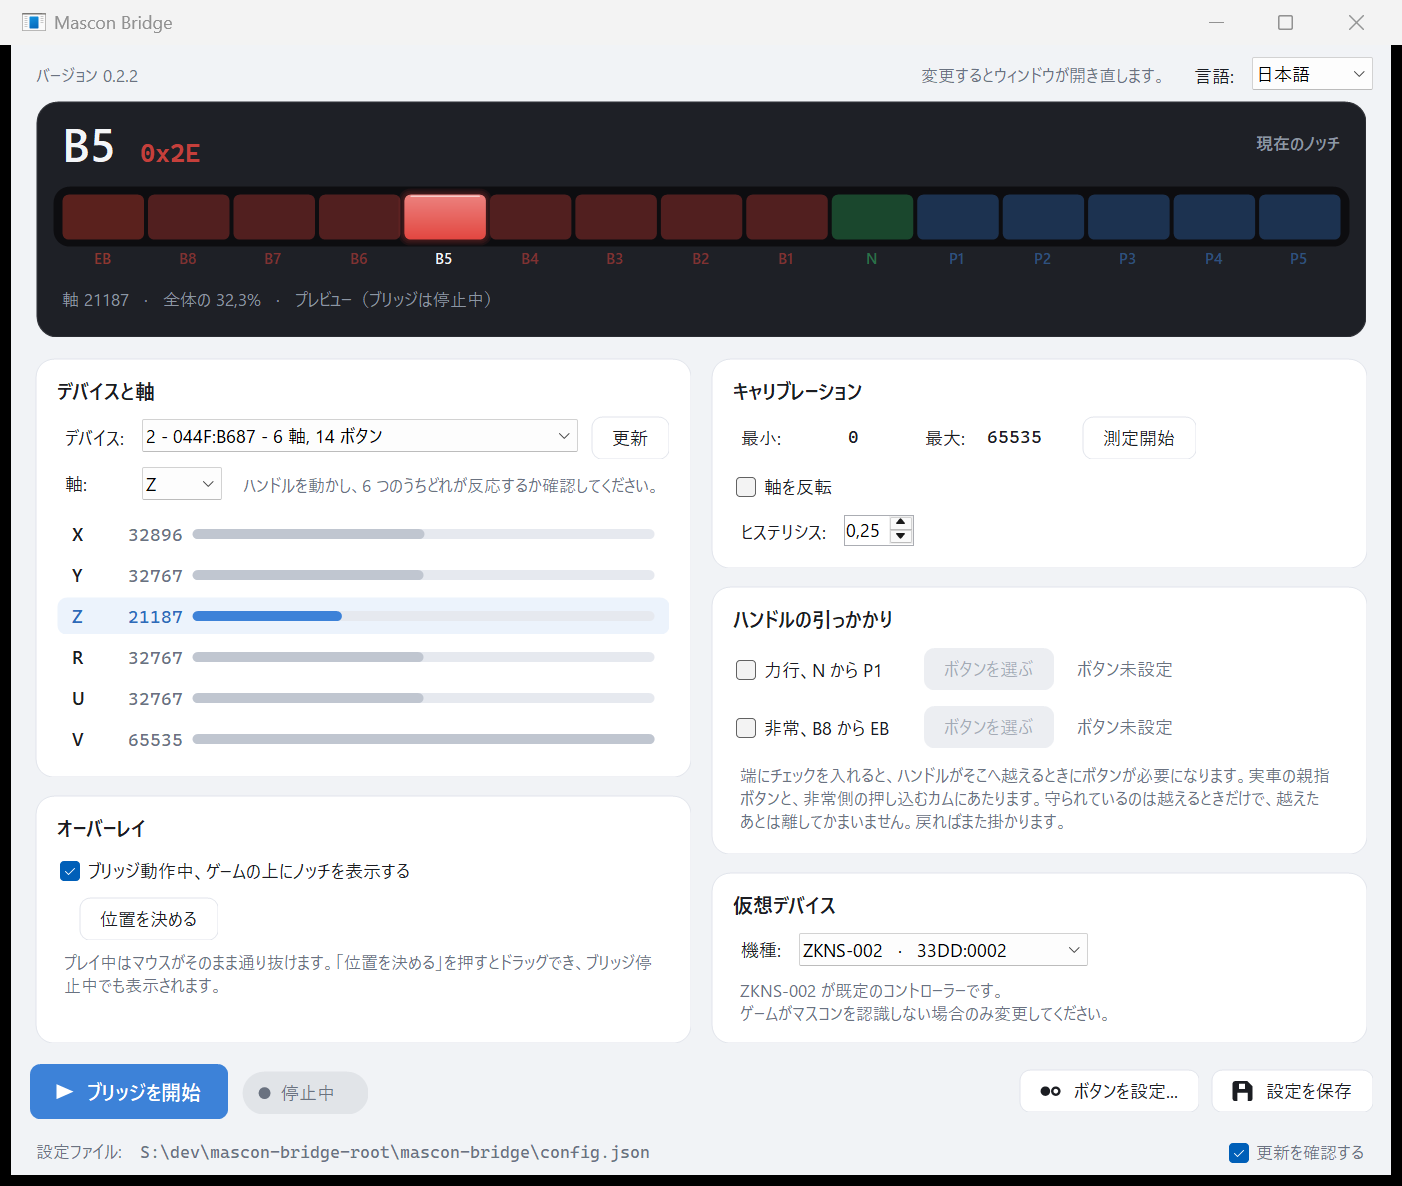
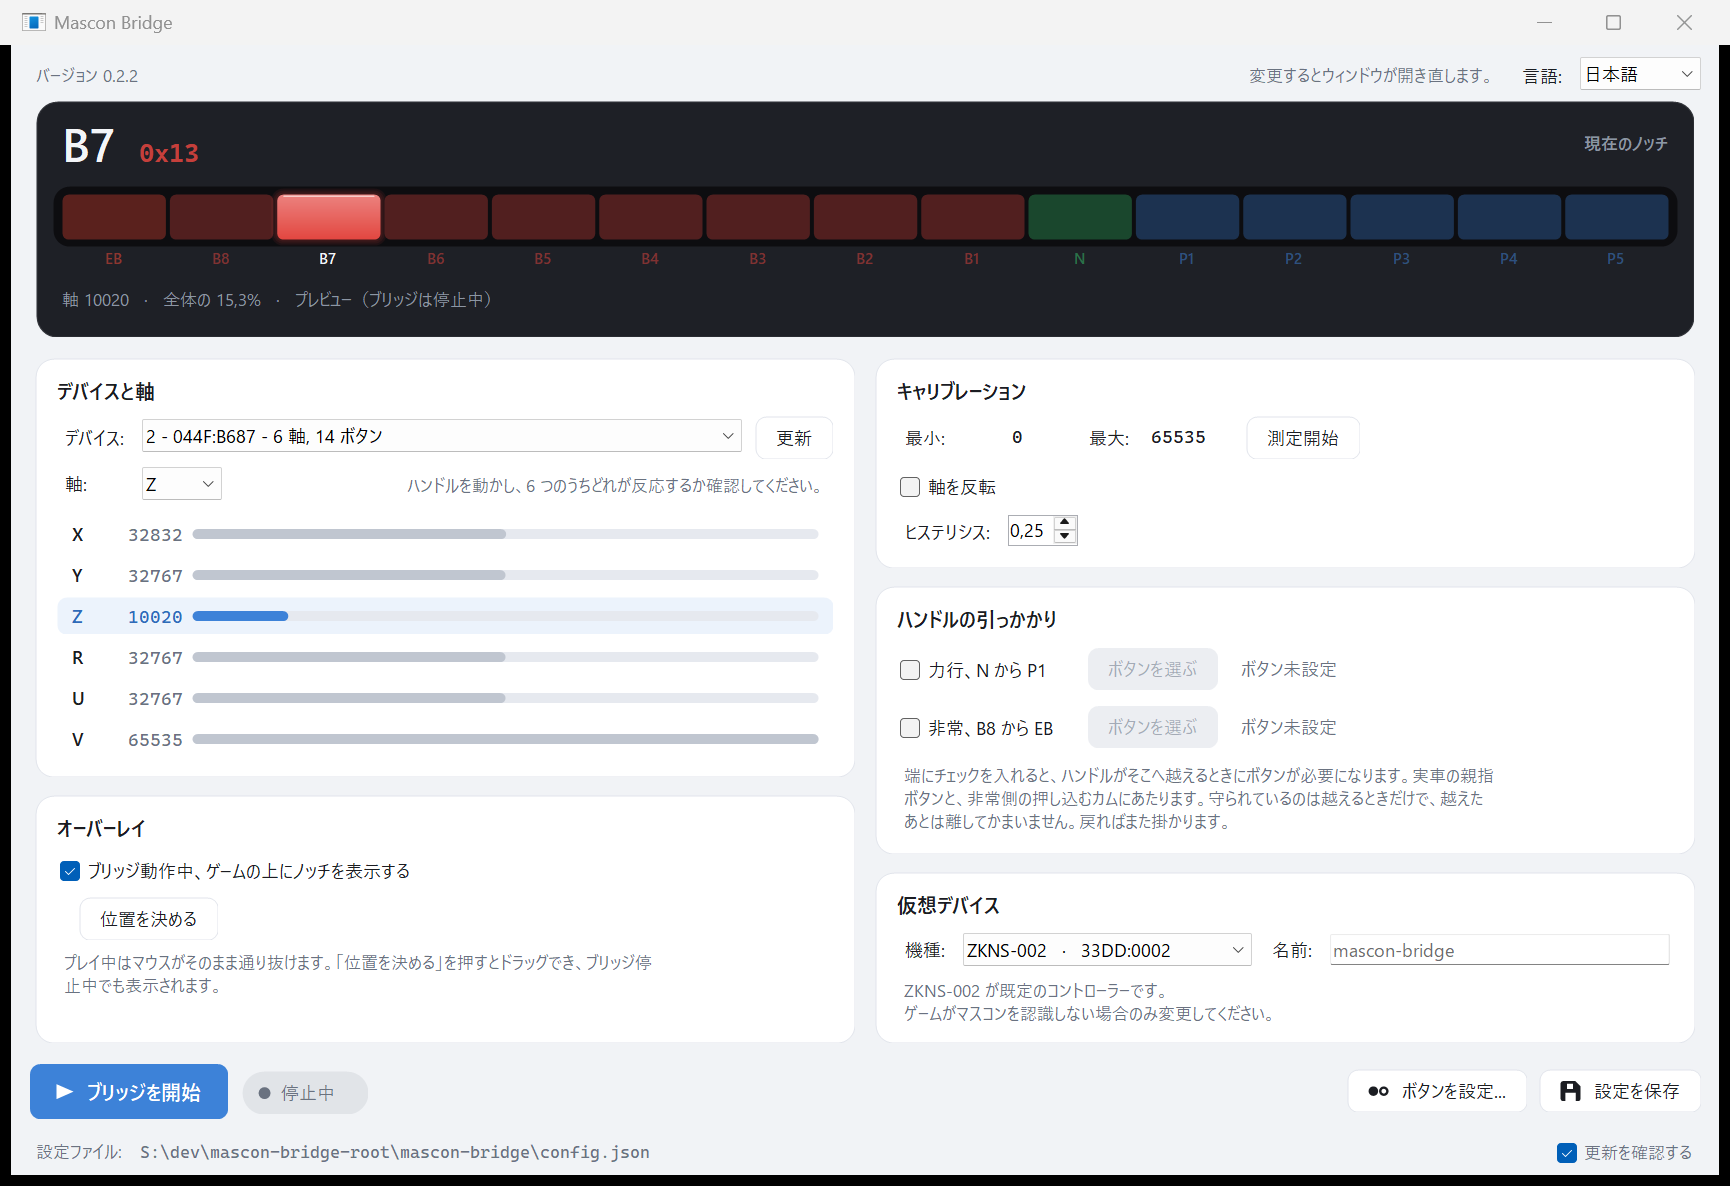
Let the device be given a different name, and make it stick (#23)
* Let the device be given a different name

The bridge stopped borrowing the real mascon's name in v0.2.1, because
nothing needs it: Steam and the game both match on the vendor and product
ids. Third party software is another matter. A BVE Trainsim input plugin
maps a device to a profile by name -- its own source does it with a string,
ProfileMap.Add("JC-PS101U", ...) -- so a profile written for the real mascon
will not recognise a device announcing itself as mascon-bridge.

So the Name box, beside the model. Empty means mascon-bridge, shown as the
placeholder so the effective name is visible without typing it, and clearing
the box puts ProductString back to null as though it had never been set.
It is disabled while the bridge runs, like the model, since the device is
already created by then.

The box holds a whole "One Handle MasCon for Nintendo Switch", measured from
the control's own font rather than a pixel count, so it survives a different
display scale and the Japanese interface, which uses a different family.
Anything longer is on the tooltip, which also carries the note that the game
never reads this and that it applies at the next start.

It shares the model's row. The window has no height to spare -- 791 logical
pixels, 989 at 125% on a 1080p screen with about 1040 usable -- and this is a
field most people will never touch. Width it does have: 1782 physical, 1485
at 125% of the 1920 available.
[…]

diff --git a/MainForm.cs b/MainForm.cs
@@ -62,6 +62,10 @@ public sealed class MainForm : Form
         Text = Strings.ButtonOverlayPlace,
     };
     private readonly FlatButton _btnBindings = new(FlatButton.Look.Plain);
+    private readonly TextBox _txtProduct = new()
+    {
+        PlaceholderText = Zuiki.ProductName,
+    };
 
     private OverlayWindow? _overlay;
     private bool _placingOverlay;
@@ -445,11 +449,13 @@ public sealed class MainForm : Form
 
     private Control BuildVirtualDevice()
     {
-        // Both columns AutoSize: a control spanning into a Percent column is not
-        // measured properly, and the hint below spans the pair.
-        var grid = Grid(2);
+        // The first three columns AutoSize; the name takes what is left, so it can
+        // hold a long one without widening the window to fit it.
+        var grid = Grid(4);
         grid.ColumnStyles.Add(new ColumnStyle(SizeType.AutoSize));
         grid.ColumnStyles.Add(new ColumnStyle(SizeType.AutoSize));
+        grid.ColumnStyles.Add(new ColumnStyle(SizeType.AutoSize));
+        grid.ColumnStyles.Add(new ColumnStyle(SizeType.Percent, 100));
 
         foreach (var m in Zuiki.KnownModels)
             _cboModel.Items.Add(new ModelItem(m.Model, $"{m.Model}   ·   {m.Vid:X4}:{m.Pid:X4}"));
@@ -459,14 +465,48 @@ public sealed class MainForm : Form
         _cboModel.Margin = new Padding(3, 3, 12, 3);
         _cboModel.SelectedIndexChanged += (_, _) => _cfg.Model = SelectedModel();
 
+        // The name shares the model's row rather than taking one of its own. The
+        // window has no spare height -- see the note about 1080p at 125% -- and this
+        // is a field almost nobody needs to touch.
+        // As wide as the card can spare without stretching the window: a full
+        // "One Handle MasCon for Nintendo Switch" would add another 20 mm of window
+        // for a field almost nobody edits. What does not fit is on the tooltip, and
+        // the box scrolls like any other.
+        _txtProduct.Anchor = AnchorStyles.Left | AnchorStyles.Right;
+        _txtProduct.Margin = new Padding(3, 3, 3, 3);
+        _txtProduct.MinimumSize = new Size(
+            Theme.Measure(new string('n', 34), _txtProduct.Font).Width, 0);
+        _txtProduct.TextChanged += (_, _) =>
+        {
+            var name = _txtProduct.Text.Trim();
+            _cfg.ProductString = name.Length == 0 ? null : name;
+            ShowProductTip();
+        };
+        ShowProductTip();
+
         grid.Controls.Add(Cap(Strings.LabelModel), 0, 0);
         grid.Controls.Add(_cboModel, 1, 0);
+        grid.Controls.Add(Cap(Strings.LabelDeviceName), 2, 0);
+        grid.Controls.Add(_txtProduct, 3, 0);
 
         var hint = Hint(string.Format(Strings.HintModel, Zuiki.DefaultModel));
         hint.Margin = new Padding(3, 10, 3, 0);
         grid.Controls.Add(hint, 0, 1);
-        grid.SetColumnSpan(hint, 2);
+        grid.SetColumnSpan(hint, 4);
         return grid;
+    }
+
+    /// <summary>
+    /// A name longer than the box gets read on the tooltip. Widening the box to fit
+    /// the longest plausible name would widen the whole window for a field that is
+    /// touched once, if ever.
+    /// </summary>
+    private void ShowProductTip()
+    {
+        var name = _txtProduct.Text.Trim();
+        _tips.SetToolTip(_txtProduct, name.Length == 0
+            ? Strings.HintDeviceName
+            : name + "\n\n" + Strings.HintDeviceName);
     }
 
     private Control BuildActions()
@@ -761,6 +801,7 @@ public sealed class MainForm : Form
         OnAxisChanged(this, EventArgs.Empty);
 
         SelectModel(_cfg.Model);
+        _txtProduct.Text = _cfg.ProductString ?? "";
 
         _suppressLanguageEvent = true;
         for (int i = 0; i < _cboLanguage.Items.Count; i++)
@@ -983,6 +1024,7 @@ public sealed class MainForm : Form
         _cboDevice.Enabled = on;
         _cboAxis.Enabled = on;
         _cboModel.Enabled = on;
+        _txtProduct.Enabled = on;
         _cboLanguage.Enabled = on;
         _btnRefresh.Enabled = on;
         _btnCalibrate.Enabled = on;

diff --git a/JoystickName.cs b/JoystickName.cs
@@ -1,0 +1,90 @@
+using Microsoft.Win32;
+
+namespace MasconBridge;
+
+/// <summary>
+/// Windows caches the name of every joystick by vendor and product id, and the Game
+/// Controllers panel reads that cache rather than asking the device. The cache
+/// outlives the device, so a virtual mascon that changes its name keeps showing the
+/// old one -- there is nothing wrong with the device, the panel is quoting itself.
+///
+/// The copy that matters lives in HKCU. There is one in HKLM too, and it is the one
+/// that updates on its own; the per user copy is the one the panel prefers and the
+/// one that goes stale.
+/// </summary>
+public static class JoystickName
+{
+    private const string Root =
+        @"System\CurrentControlSet\Control\MediaProperties\PrivateProperties\Joystick\OEM";
+
+    /// <summary>The per device subkey, e.g. "VID_33DD&amp;PID_0002".</summary>
+    public static string KeyName(ushort vid, ushort pid) => $"VID_{vid:X4}&PID_{pid:X4}";
+
+    /// <summary>Where that subkey lives, under HKEY_CURRENT_USER.</summary>
+    public static string KeyPath(ushort vid, ushort pid) => $@"{Root}\{KeyName(vid, pid)}";
+
+    /// <summary>
+    /// Whether the cached name has to go. A cache that agrees is left alone: deleting
+    /// and letting Windows write it again would be churn for nothing, and the entry
+    /// may belong to a real mascon rather than to us.
+    /// </summary>
+    public static bool IsStale(string? cached, string expected)
+        => cached is not null && !string.Equals(cached, expected, StringComparison.Ordinal);
+
+    /// <summary>
+    /// Drops the cached name when it no longer matches, so Windows writes the current
+    /// one as the device is enumerated. Call before creating the device.
+    ///
+    /// Deleting rather than overwriting on purpose: whatever appears next comes from
+    /// whichever device actually enumerates, which is the honest answer if a real
+    /// mascon is plugged in beside this one.
+    /// </summary>
+    public static bool ClearIfStale(ushort vid, ushort pid, string expected)
+    {
+        try
+        {
+            using var oem = Registry.CurrentUser.OpenSubKey(Root, writable: true);
+            if (oem is null) return false;
+
+            string name = KeyName(vid, pid);
+            using (var device = oem.OpenSubKey(name))
+            {
+                if (device is null) return false;
+                if (!IsStale(device.GetValue("OEMName") as string, expected)) return false;
+            }
+
+            oem.DeleteSubKeyTree(name, throwOnMissingSubKey: false);
+            return true;
+        }
+        catch (UnauthorizedAccessException) { return false; }
+        catch (System.Security.SecurityException) { return false; }
+        catch (IOException) { return false; }
+    }
+
+    /// <summary>
+    /// Writes the name in, after the device exists. Clearing the entry first is not
+    /// always enough: Windows refreshes its own copy under HKLM and can leave the per
+    /// user one out of date or absent, and that is the one the panel reads. So the
+    /// entry is checked once the device is there and corrected if it disagrees.
+    ///
+    /// Only ever writes the name this bridge is announcing, and only when the cache
+    /// says something else -- an entry that already agrees is somebody's business,
+    /// possibly a real mascon's, and is left alone.
+    /// </summary>
+    public static bool Ensure(ushort vid, ushort pid, string expected)
+    {
+        try
+        {
+            using var device = Registry.CurrentUser.CreateSubKey($@"{Root}\{KeyName(vid, pid)}");
+            if (device is null) return false;
+
+            if (device.GetValue("OEMName") as string == expected) return false;
+
+            device.SetValue("OEMName", expected, RegistryValueKind.String);
+            return true;
+        }
+        catch (UnauthorizedAccessException) { return false; }
+        catch (System.Security.SecurityException) { return false; }
+        catch (IOException) { return false; }
+    }
+}

diff --git a/tests/MasconBridge.Tests/JoystickNameTests.cs b/tests/MasconBridge.Tests/JoystickNameTests.cs
@@ -1,0 +1,46 @@
+using MasconBridge;
+
+namespace MasconBridge.Tests;
+
+public class JoystickNameTests
+{
+    [Fact]
+    public void The_key_is_named_after_the_ids_in_upper_case_hex()
+    {
+        Assert.Equal("VID_33DD&PID_0002", JoystickName.KeyName(0x33DD, 0x0002));
+        Assert.Equal("VID_0F0D&PID_00C1", JoystickName.KeyName(0x0F0D, 0x00C1));
+    }
+
+    [Fact]
+    public void The_path_is_the_one_the_game_controllers_panel_reads()
+    {
+        Assert.Equal(
+            @"System\CurrentControlSet\Control\MediaProperties\PrivateProperties\Joystick\OEM\VID_33DD&PID_0002",
+            JoystickName.KeyPath(0x33DD, 0x0002));
+    }
+
+    [Fact]
+    public void A_cache_that_agrees_is_left_alone()
+        => Assert.False(JoystickName.IsStale("mascon-bridge", "mascon-bridge"));
+
+    [Fact]
+    public void A_cache_holding_another_name_is_stale()
+        => Assert.True(JoystickName.IsStale("One Handle MasCon for Nintendo Switch", "mascon-bridge"));
+
+    [Fact]
+    public void Nothing_cached_is_nothing_to_clear()
+        => Assert.False(JoystickName.IsStale(null, "mascon-bridge"));
+
+    [Fact]
+    public void Case_counts_because_the_panel_shows_it_verbatim()
+        => Assert.True(JoystickName.IsStale("Mascon-Bridge", "mascon-bridge"));
+
+    // Ensure and ClearIfStale touch the real registry, so what is testable here is
+    // the decision they share: an entry that disagrees is the only one to act on.
+    [Theory]
+    [InlineData("One Handle MasCon for Nintendo Switch", "mascon-bridge", true)]
+    [InlineData("mascon-bridge", "mascon-bridge", false)]
+    [InlineData(null, "mascon-bridge", false)]
+    public void Staleness_is_decided_only_by_disagreement(string? cached, string expected, bool stale)
+        => Assert.Equal(stale, JoystickName.IsStale(cached, expected));
+}

diff --git a/assets/gen-strings.py b/assets/gen-strings.py
@@ -52,6 +52,17 @@ S = {
         "{0} is the default controller.\nOnly change this if the game ignores the mascon.",
         "{0} が既定のコントローラーです。\nゲームがマスコンを認識しない場合のみ変更してください。",
     ),
+    "LabelDeviceName": ("Name:", "名前:"),
+    "HintDeviceName": (
+        "What the device calls itself. Leave it empty for mascon-bridge.\n"
+        "The game matches on the ids and never reads this, but some third party "
+        "tools -- a BVE input plugin, say -- look for the name of the real mascon.\n"
+        "Takes effect the next time the bridge starts.",
+        "デバイスが名乗る名前です。空欄なら mascon-bridge になります。\n"
+        "ゲームは ID で判定するためこの名前を見ませんが、BVE の入力プラグインなど、"
+        "実機の名前で探す外部ツールがあります。\n"
+        "次にブリッジを開始したときから反映されます。",
+    ),
     "HintButtonsInFile": ("Settings file:", "設定ファイル:"),
     "GroupCatches": ("Handle catches", "ハンドルの引っかかり"),
     "GroupOverlay": ("Overlay", "オーバーレイ"),

diff --git a/VirtualMascon.cs b/VirtualMascon.cs
@@ -17,6 +17,11 @@ public sealed class VirtualMascon : IDisposable
         // rights, but no reboot and no Windows test signing mode.
         _ctx.InstallDriver();
 
+        // Before the device appears, not after: Windows writes its name cache while
+        // enumerating, so a stale entry has to be gone by then or the Game
+        // Controllers panel keeps showing the previous name.
+        JoystickName.ClearIfStale(vid, pid, product);
+
         var profile = new HMProfileBuilder()
             .Id("mascon-bridge")
             .Name("mascon-bridge")
@@ -31,6 +36,11 @@ public sealed class VirtualMascon : IDisposable
             .Build();
 
         _ctrl = _ctx.CreateController(profile);
+
+        // And again now that it exists. Windows keeps its own copy of the name up to
+        // date and does not always refresh the per user one, which is the copy the
+        // Game Controllers panel reads.
+        JoystickName.Ensure(vid, pid, product);
     }
 
     public void Submit(byte[] report) => _ctrl.SubmitRawReport(report);

diff --git a/Strings.cs b/Strings.cs
@@ -48,6 +48,8 @@ public static class Strings
         "ButtonLearnCancel",
         "HintAxis",
         "HintModel",
+        "LabelDeviceName",
+        "HintDeviceName",
         "HintButtonsInFile",
         "GroupCatches",
         "GroupOverlay",
@@ -148,6 +150,8 @@ public static class Strings
     public static string ButtonLearnCancel => Get(nameof(ButtonLearnCancel));
     public static string HintAxis => Get(nameof(HintAxis));
     public static string HintModel => Get(nameof(HintModel));
+    public static string LabelDeviceName => Get(nameof(LabelDeviceName));
+    public static string HintDeviceName => Get(nameof(HintDeviceName));
     public static string HintButtonsInFile => Get(nameof(HintButtonsInFile));
     public static string GroupCatches => Get(nameof(GroupCatches));
     public static string GroupOverlay => Get(nameof(GroupOverlay));

diff --git a/README.md b/README.md
@@ -188,6 +188,17 @@ Set-ExecutionPolicy -Scope Process Bypass
 .\try-model.ps1 ZKNS-011
 ```
 
+### 隣の「名前」
+
+**名前**の欄は、デバイスが名乗る名前です。空欄なら `mascon-bridge` になります。ゲームは
+この名前を見ません。Steam もゲームもベンダー ID とプロダクト ID で判定するので、実機の
+名前を借りる必要がないからです。
+
+この欄があるのは、名前を見る外部ソフトのためです。たとえば BVE Trainsim の入力デバイス
+プラグインには、デバイス名でプロファイルを対応づけるものがあります。その場合はここに実機の
+名前を入れると一致します。次にブリッジを開始したときから反映され、`config.json` では
+`"ProductString"` にあたります。
+
 ## うまくいかないとき
 
 **ゲームが HOTAS と仮想マスコンの両方に反応する。**

diff --git a/README.en.md b/README.en.md
@@ -241,6 +241,17 @@ If the game does not react, work through the other `33DD` models before suspecti
 anything else. Close and reopen the game on each round — it enumerates controllers at
 startup, so switching model while it runs proves nothing.
 
+### The name beside it
+
+The **Name** box is what the device calls itself. Leave it empty and it is
+`mascon-bridge`. The game never reads it — Steam and the game both match on the vendor
+and product ids, which is why the bridge does not borrow the real mascon's name.
+
+It is there for third party software that does look at the name. A BVE Trainsim input
+plugin, for instance, can map a device to a profile by name, in which case entering the
+real mascon's name is what makes the profile match. It takes effect the next time the
+bridge starts, and it is `"ProductString"` in `config.json`.
+
 `try-model.ps1` automates that loop from a console:
 
 ```powershell
